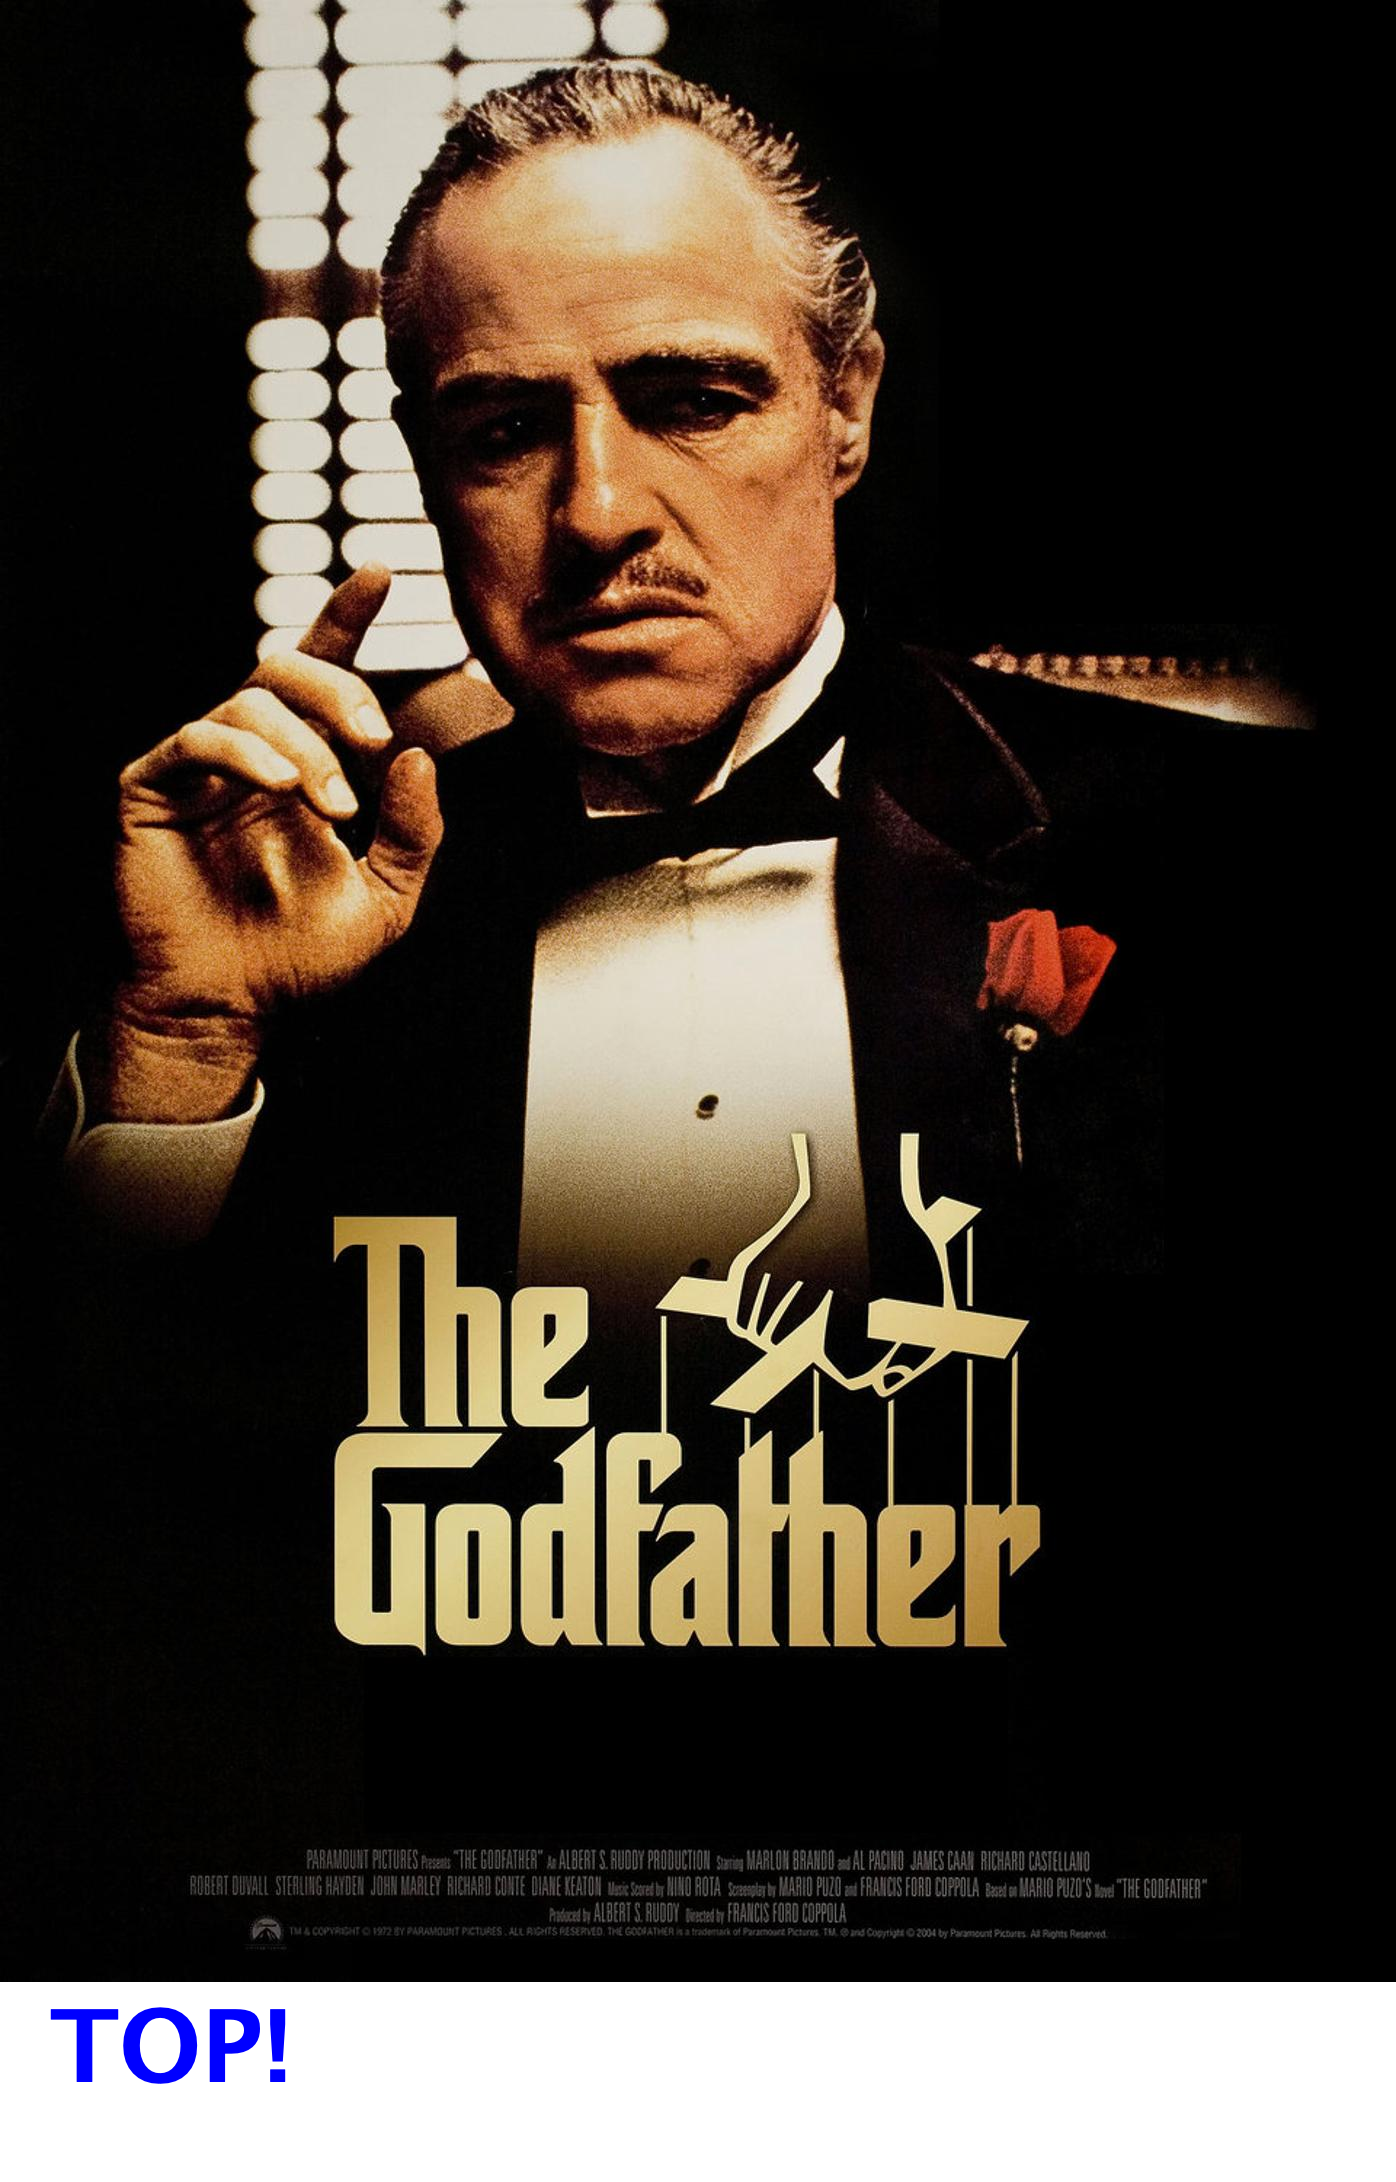
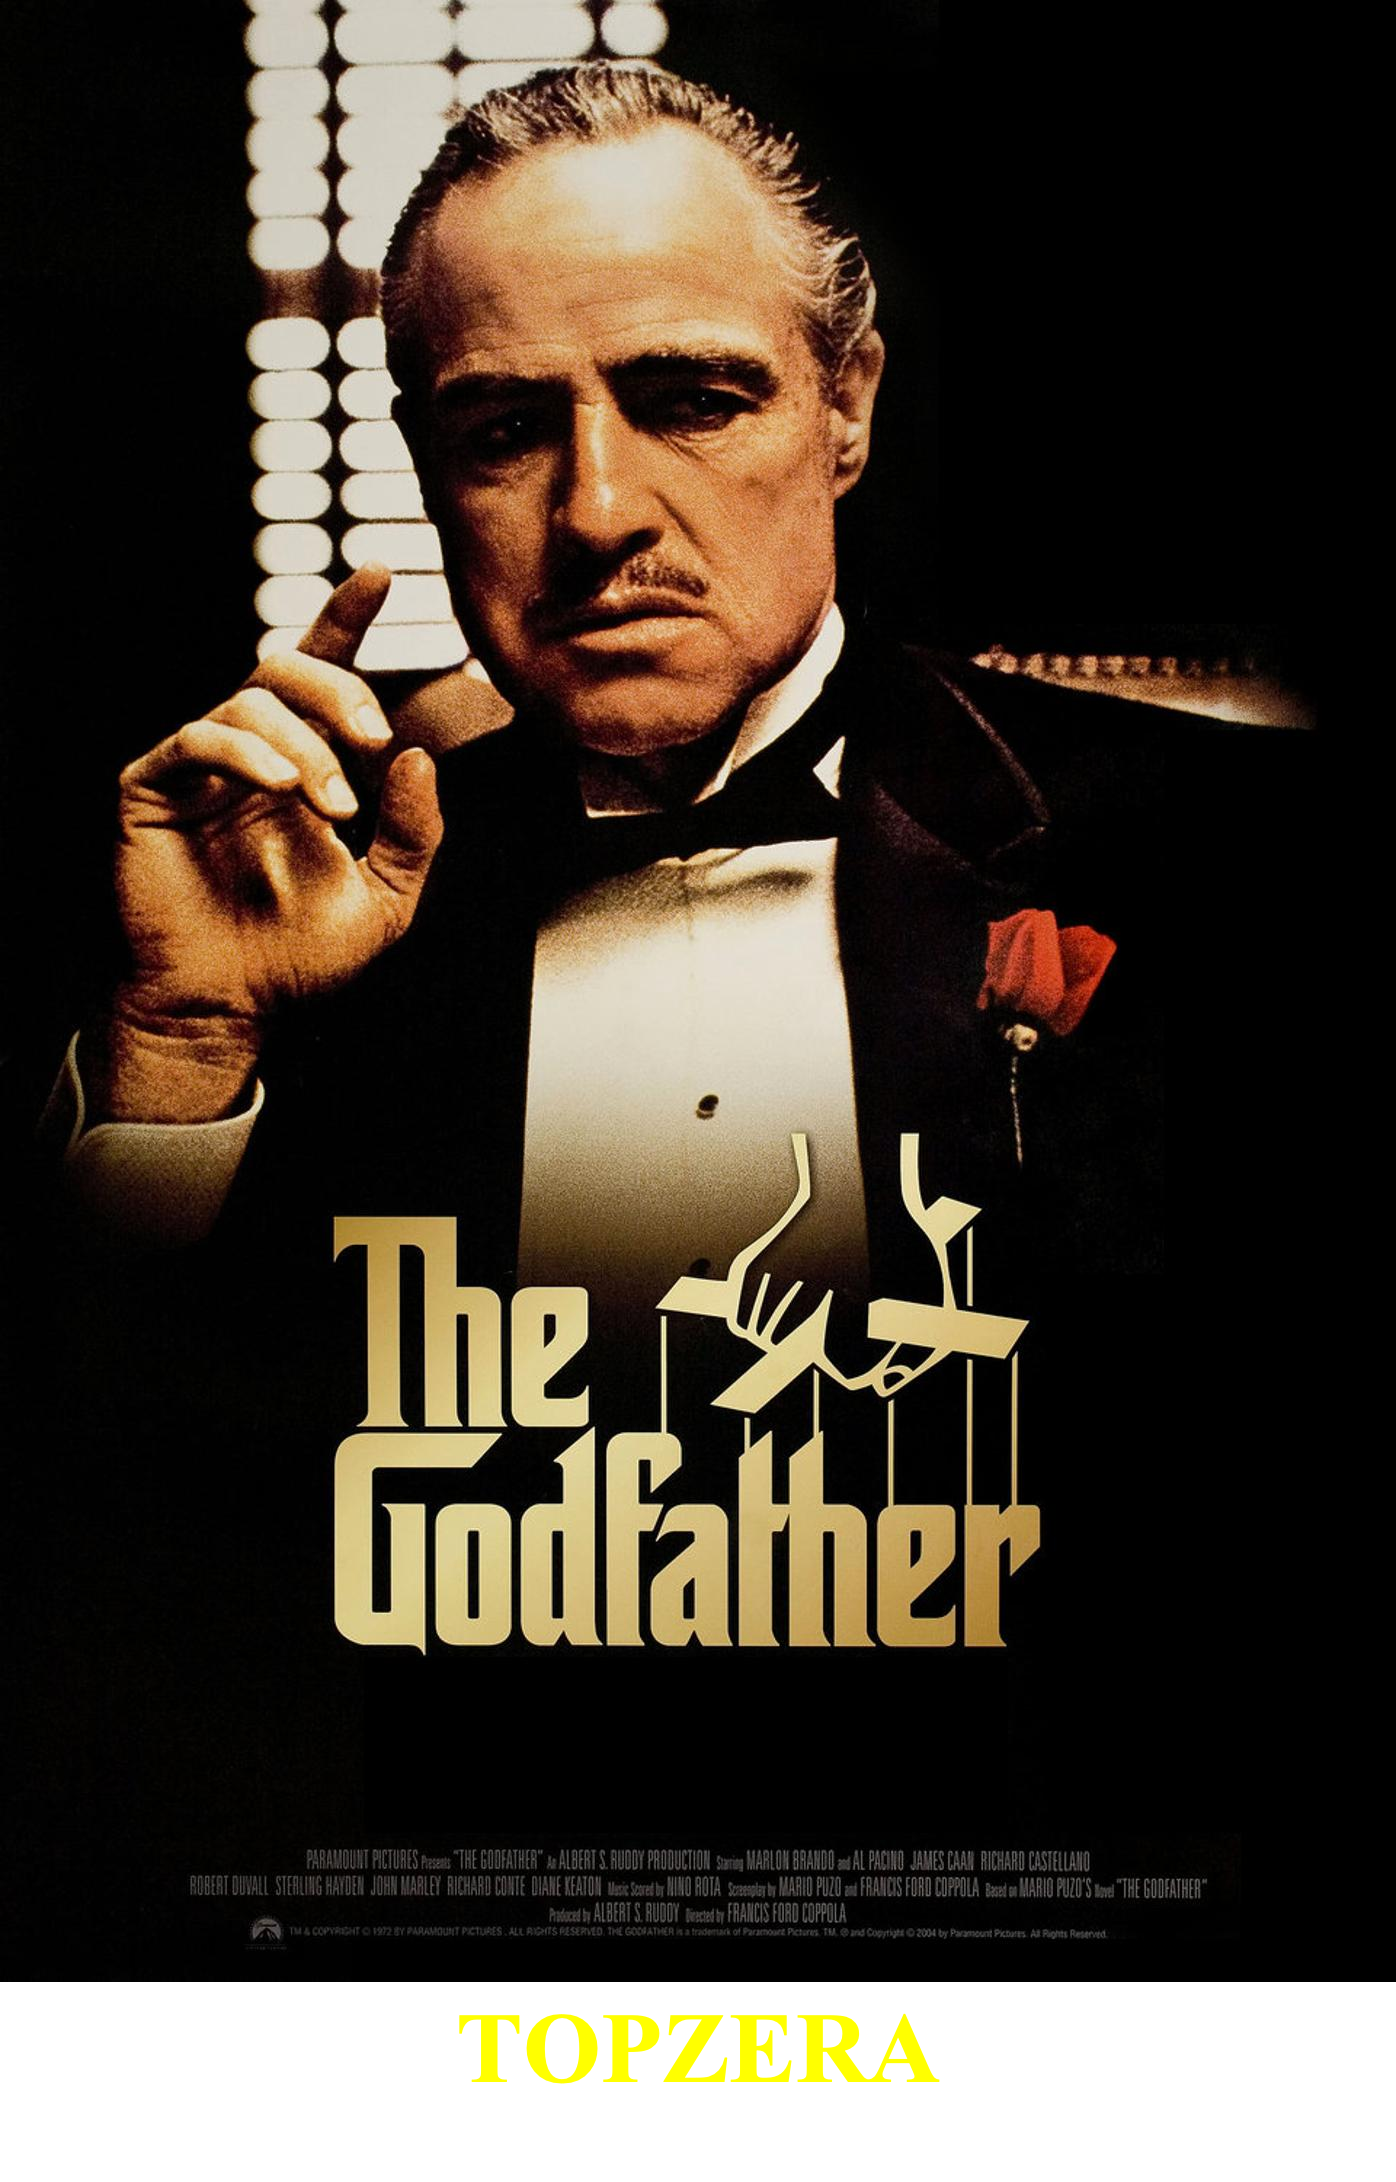
feature: centered text

Changed region(s): [[0.3388, 0.9038, 0.6777, 0.9661], [0.0308, 0.9038, 0.2156, 0.9661]]

diff --git a/src/GeradoraDeFigurinhas.java b/src/GeradoraDeFigurinhas.java
@@ -1,10 +1,12 @@
 import java.awt.Graphics2D;
+import java.awt.geom.Rectangle2D;
 import java.awt.image.BufferedImage;
 import java.io.File;
 import java.io.InputStream;
 //import java.net.URL;
 import java.awt.Color;
 import java.awt.Font;
+import java.awt.FontMetrics;
 
 import javax.imageio.ImageIO;
 
@@ -34,12 +36,17 @@ public class GeradoraDeFigurinhas {
     graphics.drawImage(imagemOriginal, 0, 0, null);
 
     // configurar a fonte
-    var fonte = new Font(Font.SANS_SERIF, Font.BOLD, 100);
-    graphics.setColor(Color.BLUE);
+    var fonte = new Font(Font.SERIF, Font.BOLD, 100);
+    graphics.setColor(Color.YELLOW);
     graphics.setFont(fonte);
 
     // escrever uma frase na nova imagem
-    graphics.drawString("TOP!", 50, novaAltura -100);
+    String texto = "TOPZERA";
+    FontMetrics fontMetrics = graphics.getFontMetrics();
+    Rectangle2D retangulo = fontMetrics.getStringBounds(texto, graphics);
+    int larguraTexto = (int) retangulo.getWidth();
+    int posicaoTextoX = (largura - larguraTexto) / 2;
+    graphics.drawString(texto, posicaoTextoX, novaAltura -100);
 
     // escrever a nova imagem em um arquivo para pasta no computador
    // ImageIO.write(novaImagem, "png", new File("saida/figurinha.png"));
